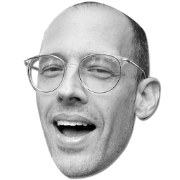
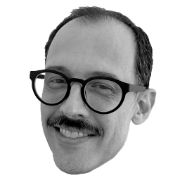
new heads

diff --git a/src/App.tsx b/src/App.tsx
@@ -134,13 +134,14 @@ export default function App() {
         </div> */}
 
         <div className="flex flex-col items-center p-md py-lg sm:p-lg md:p-xl lg:p-2xl text-center">
-          <ChatBubble className="mb-lg" frames={adamHeads2}>I'm fascinated by the creative process - turning ideas into reality. I'm fully aware that I'm not making products for my own artistic expression. I work to find the balance between what the business wants and what the users need.</ChatBubble>
+          {/* <ChatBubble className="mb-lg" frames={adamHeads2}>I'm fascinated by the creative process - turning ideas into reality. I'm fully aware that I'm not making products for my own artistic expression. I work to find the balance between what the business wants and what the users need.</ChatBubble> */}
+          <ChatBubble className="mb-lg" frames={adamHeads2}>I'm fascinated by the creative process. It takes creativity to find the balance between what the business wants and what the users need. These work samples represent some of my favorite projects.</ChatBubble>
         </div>
         
-        <div className="flex flex-col items-center p-md py-lg sm:p-lg md:p-xl lg:p-2xl text-center relative">
+        {/* <div className="flex flex-col items-center p-md py-lg sm:p-lg md:p-xl lg:p-2xl text-center relative">
           <ChatBubble direction="right" className="mb-lg" frames={adamHeads3}>These work samples represent a few projects I've done, but I believe my best work is always ahead of me.</ChatBubble>
           <img className="absolute left-1/2 -bottom-6 w-6 md:w-10" src={sketchArrow} alt="sketched arrow"/>
-        </div>
+        </div> */}
 
         <div className="relative flex flex-col p-lg text-center">
           <a target="_blank" href="https://www.figma.com/proto/WXjLZPh850XB86Ah9fhCJB/adam-portfolio?page-id=1175%3A15974&type=design&node-id=1180-17017&viewport=928%2C1321%2C1.1&t=OYDICEZf5lxCeZWk-1&scaling=scale-down&starting-point-node-id=1175%3A15996&mode=design" className=""><h2 className="font-big-buddy mb-sm text-royal">Enhanced Flows for Provider&nbsp;Pros</h2></a>
